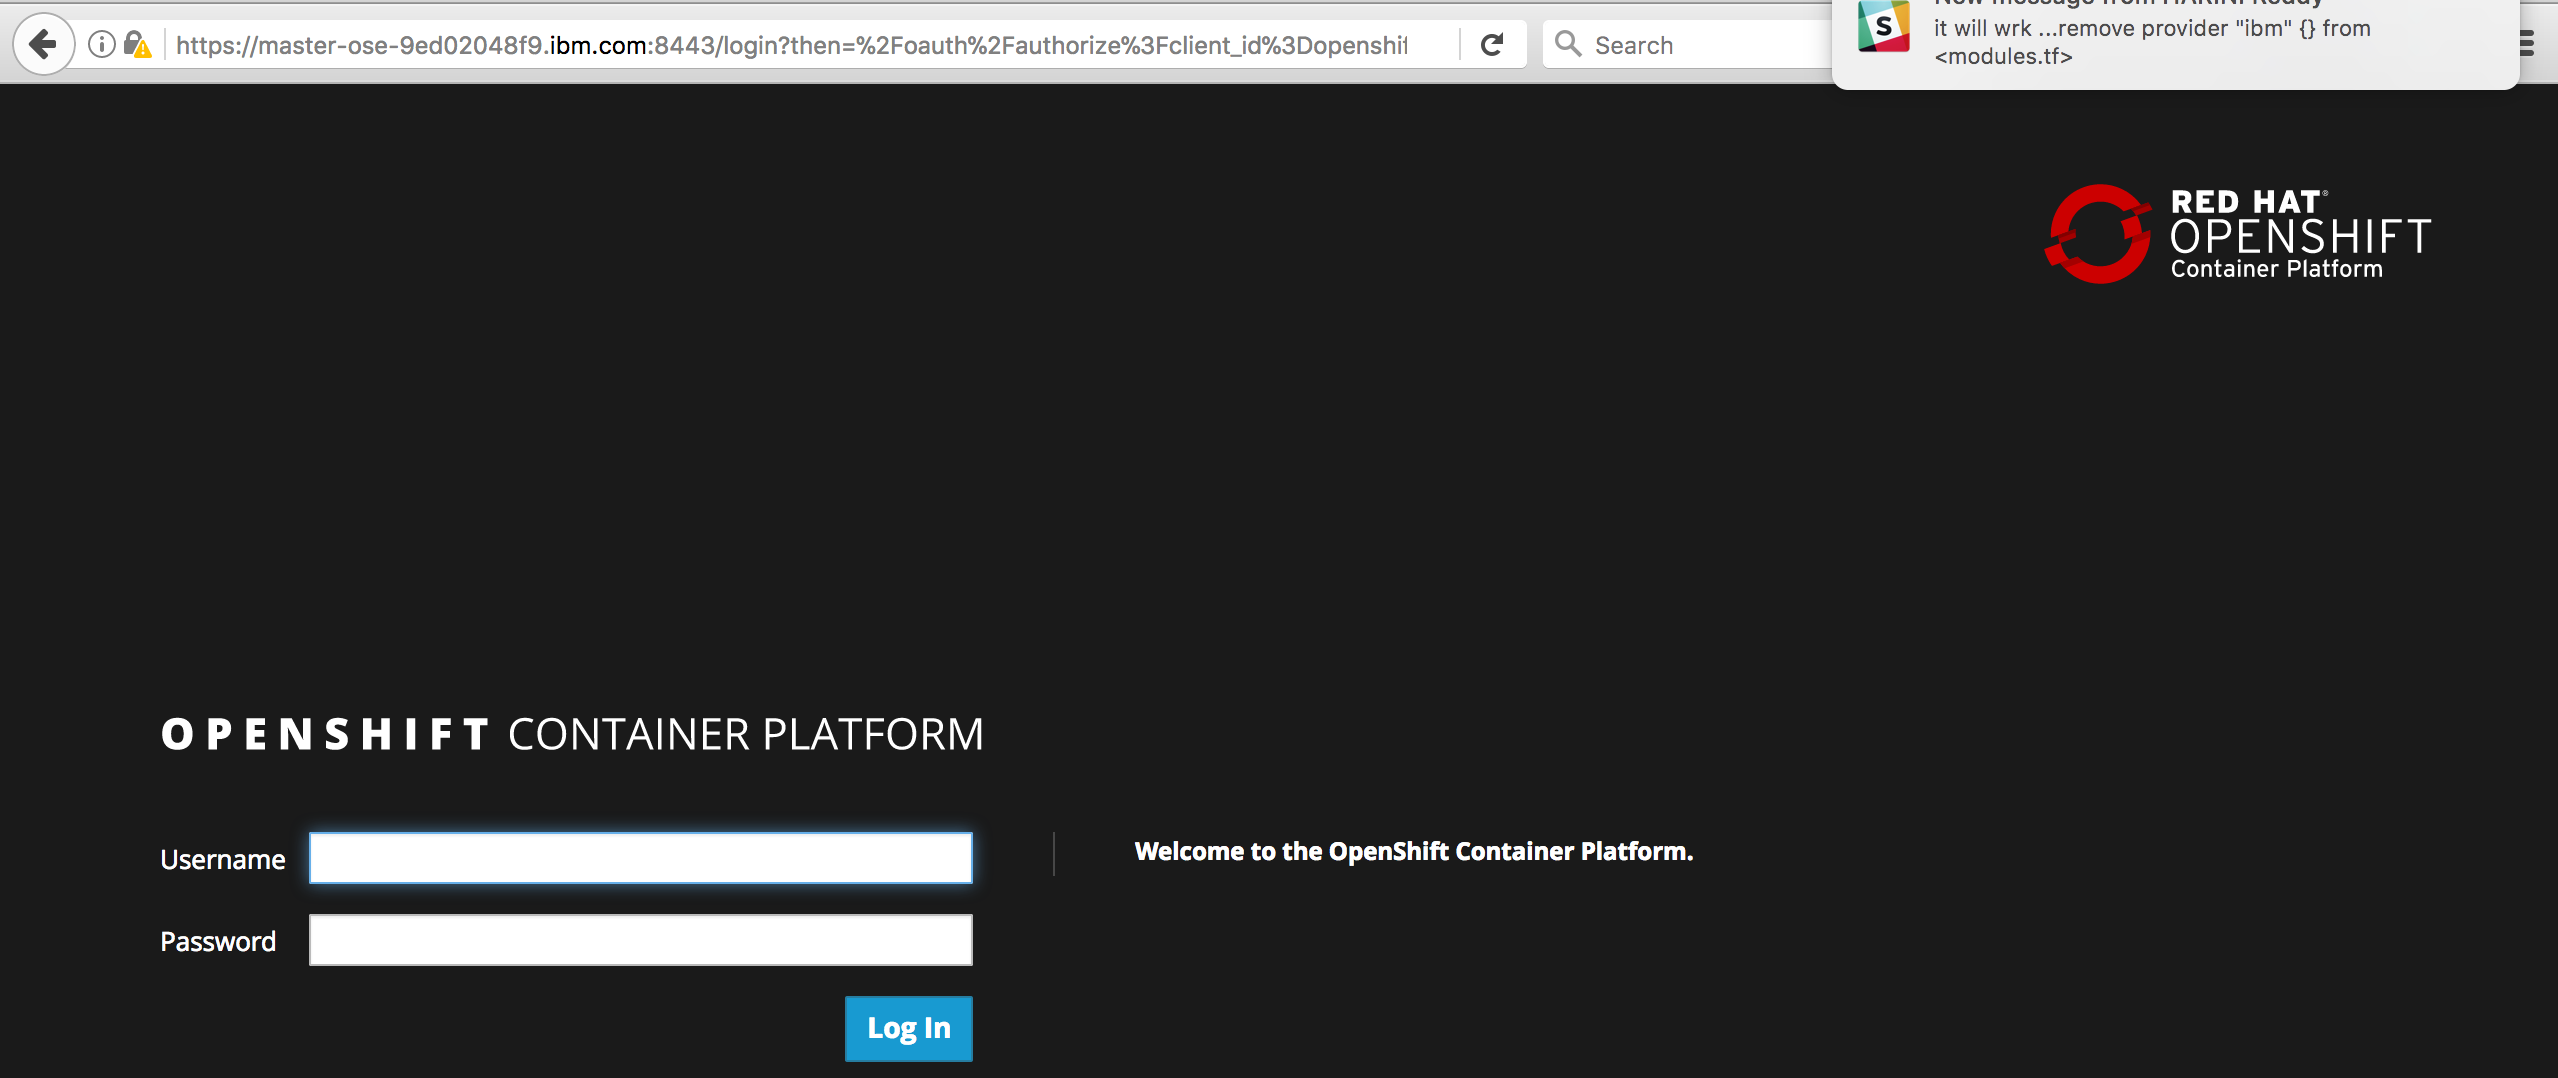
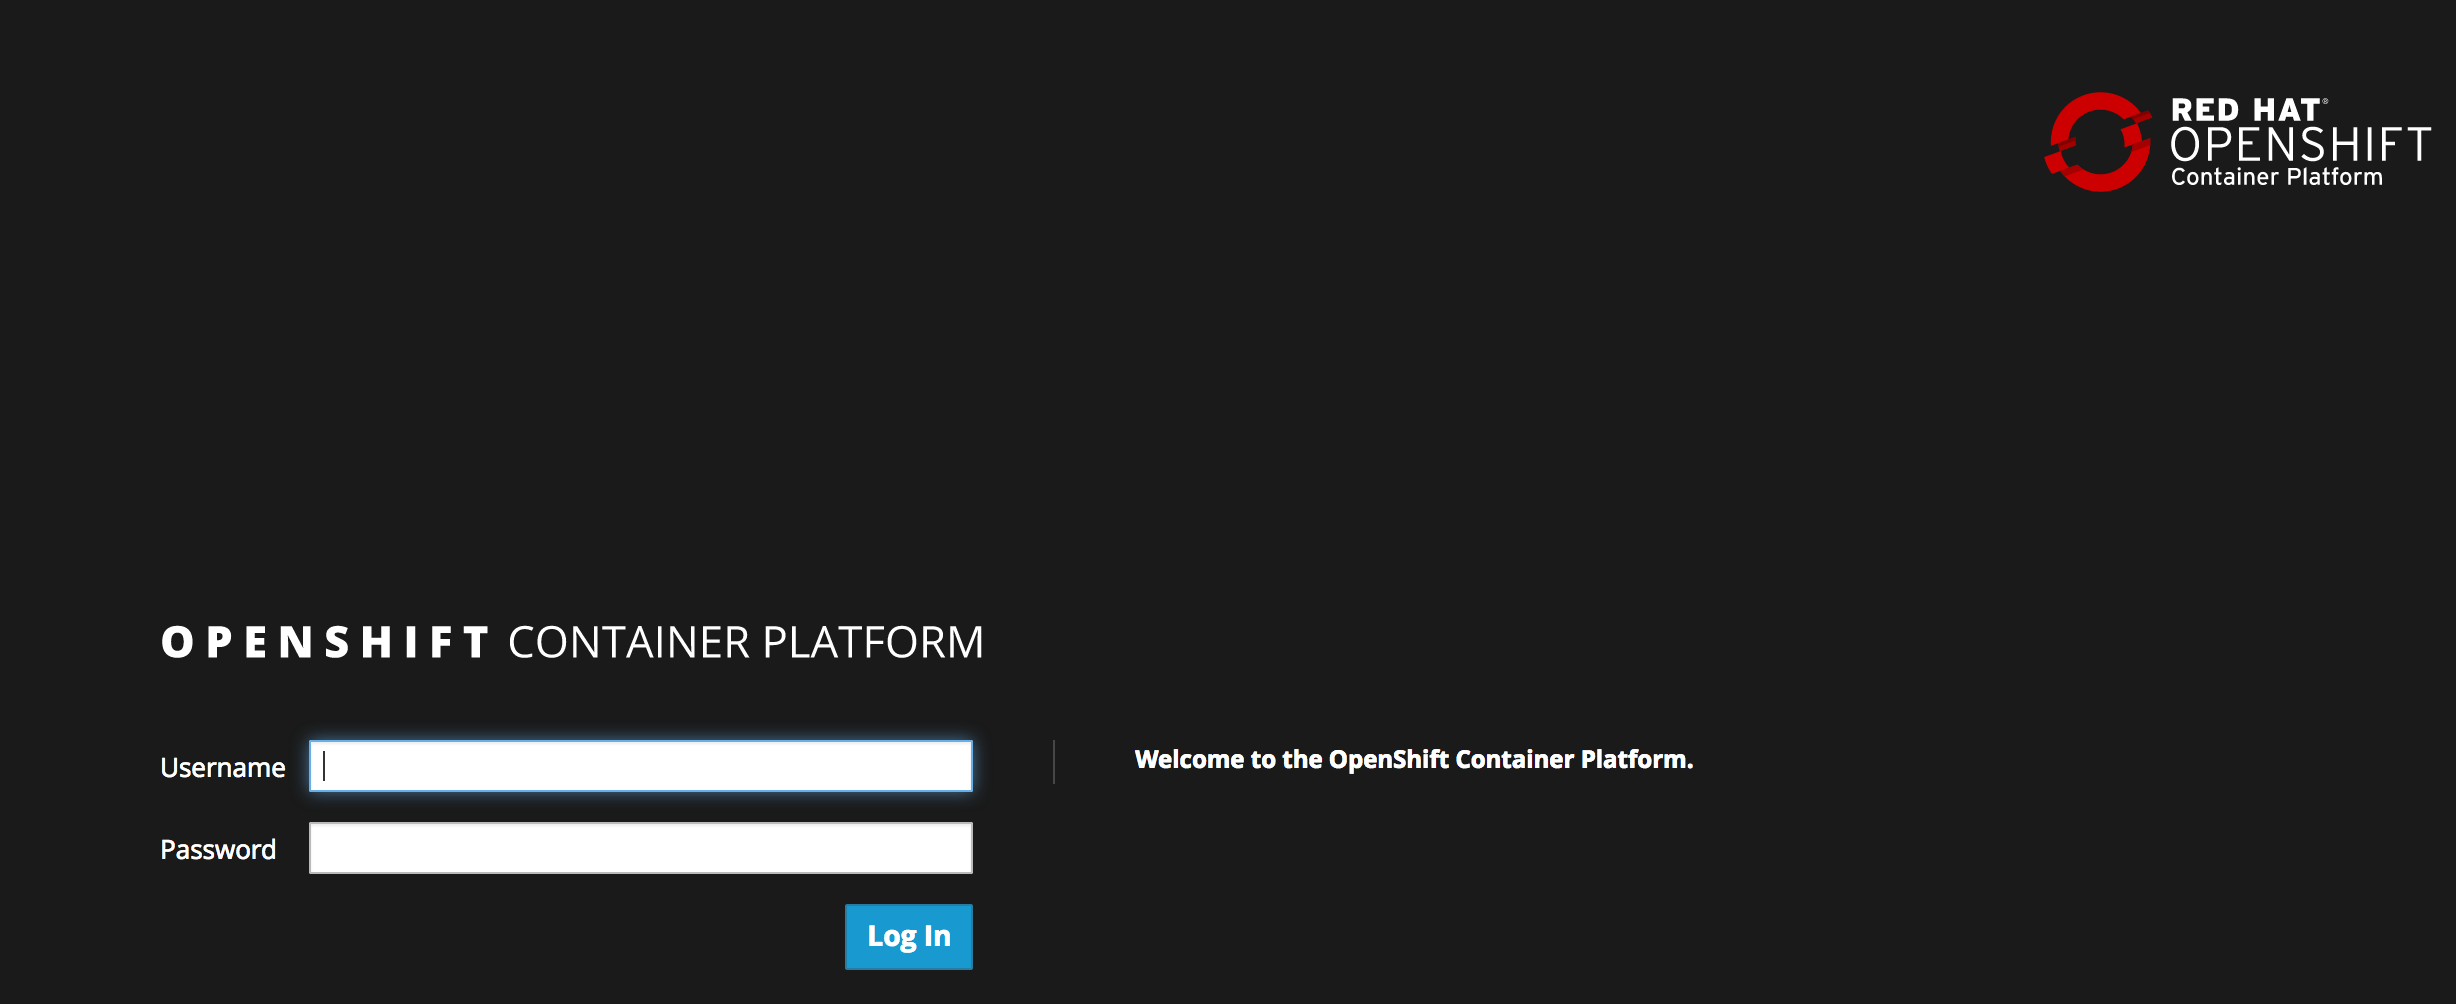
update openshift console image

Changed region(s): [[0.0, 0.0, 1.0, 0.2779], [0.0619, 0.6175, 0.4023, 0.988], [0.4332, 0.741, 0.6808, 0.8028]]

diff --git a/README.md b/README.md
@@ -117,7 +117,7 @@ Once the setup is complete, just run:
    ``` console
    $ open https://$(terraform output master_private_ip):8443/console
    ```
-This figure illustrates the Red Hat Openshift Console
+This figure illustrates the 'Red Hat Openshift Console'
 
 ![Openshift Console](https://github.com/IBMTerraform/terraform-ibm-openshift/blob/master/docs/ose-console.png)
 
